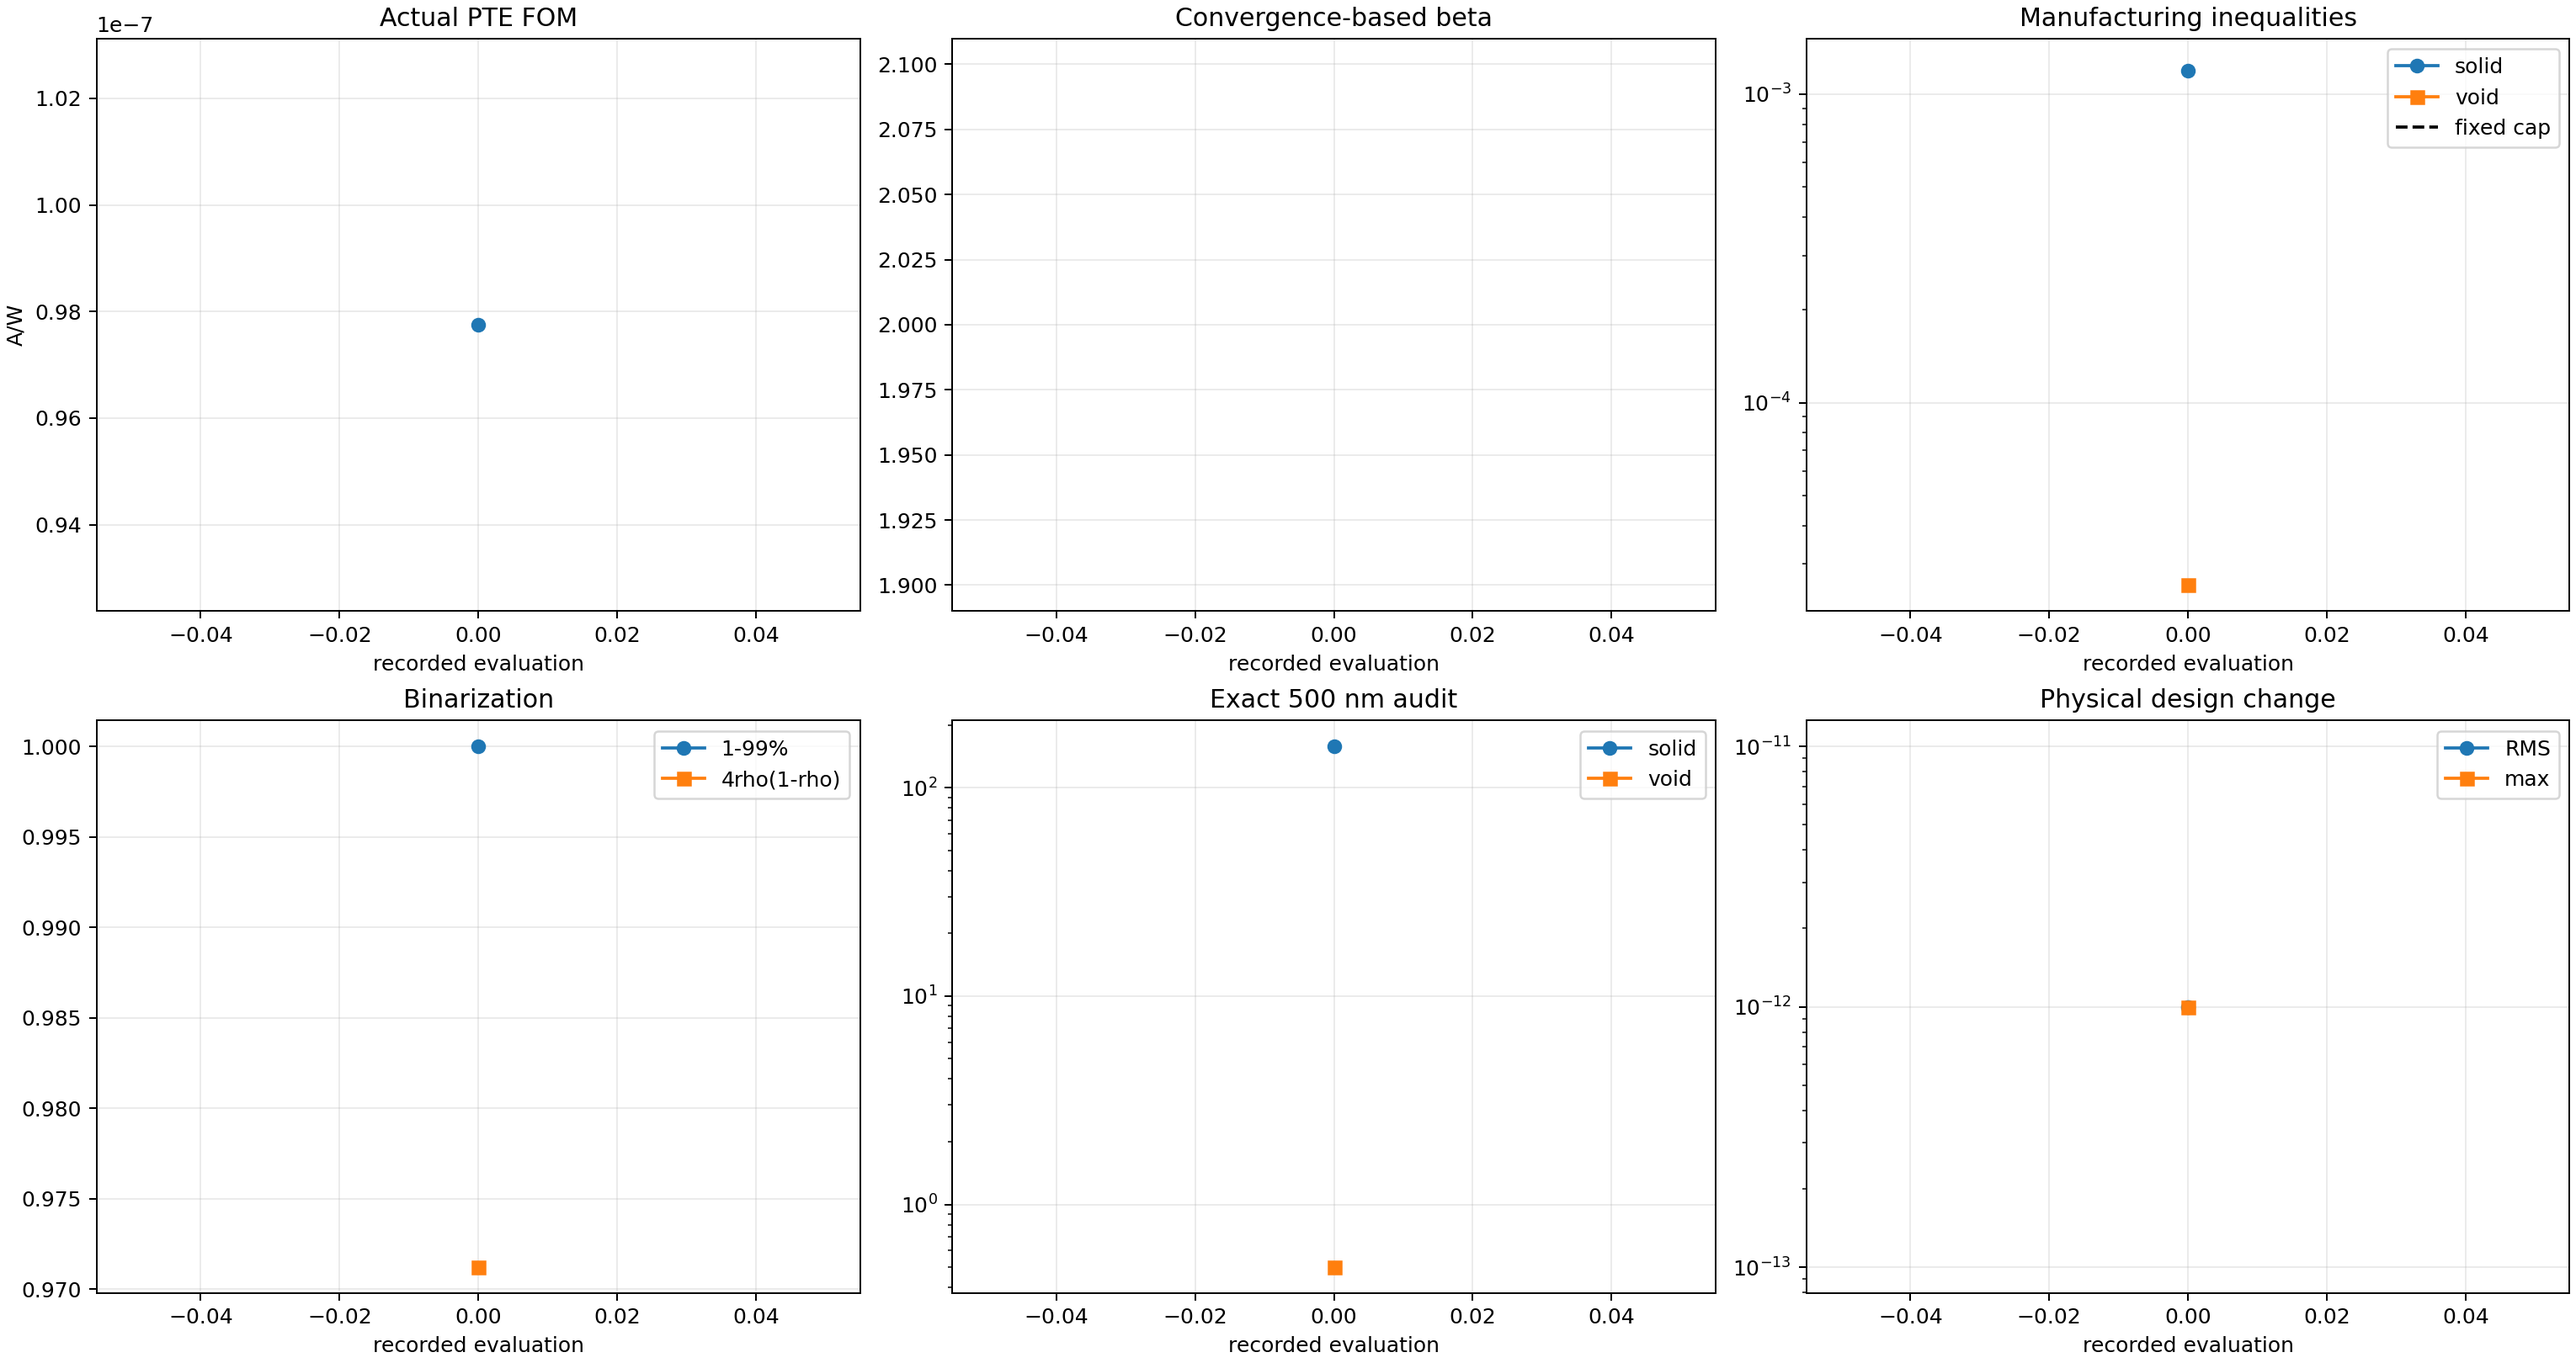
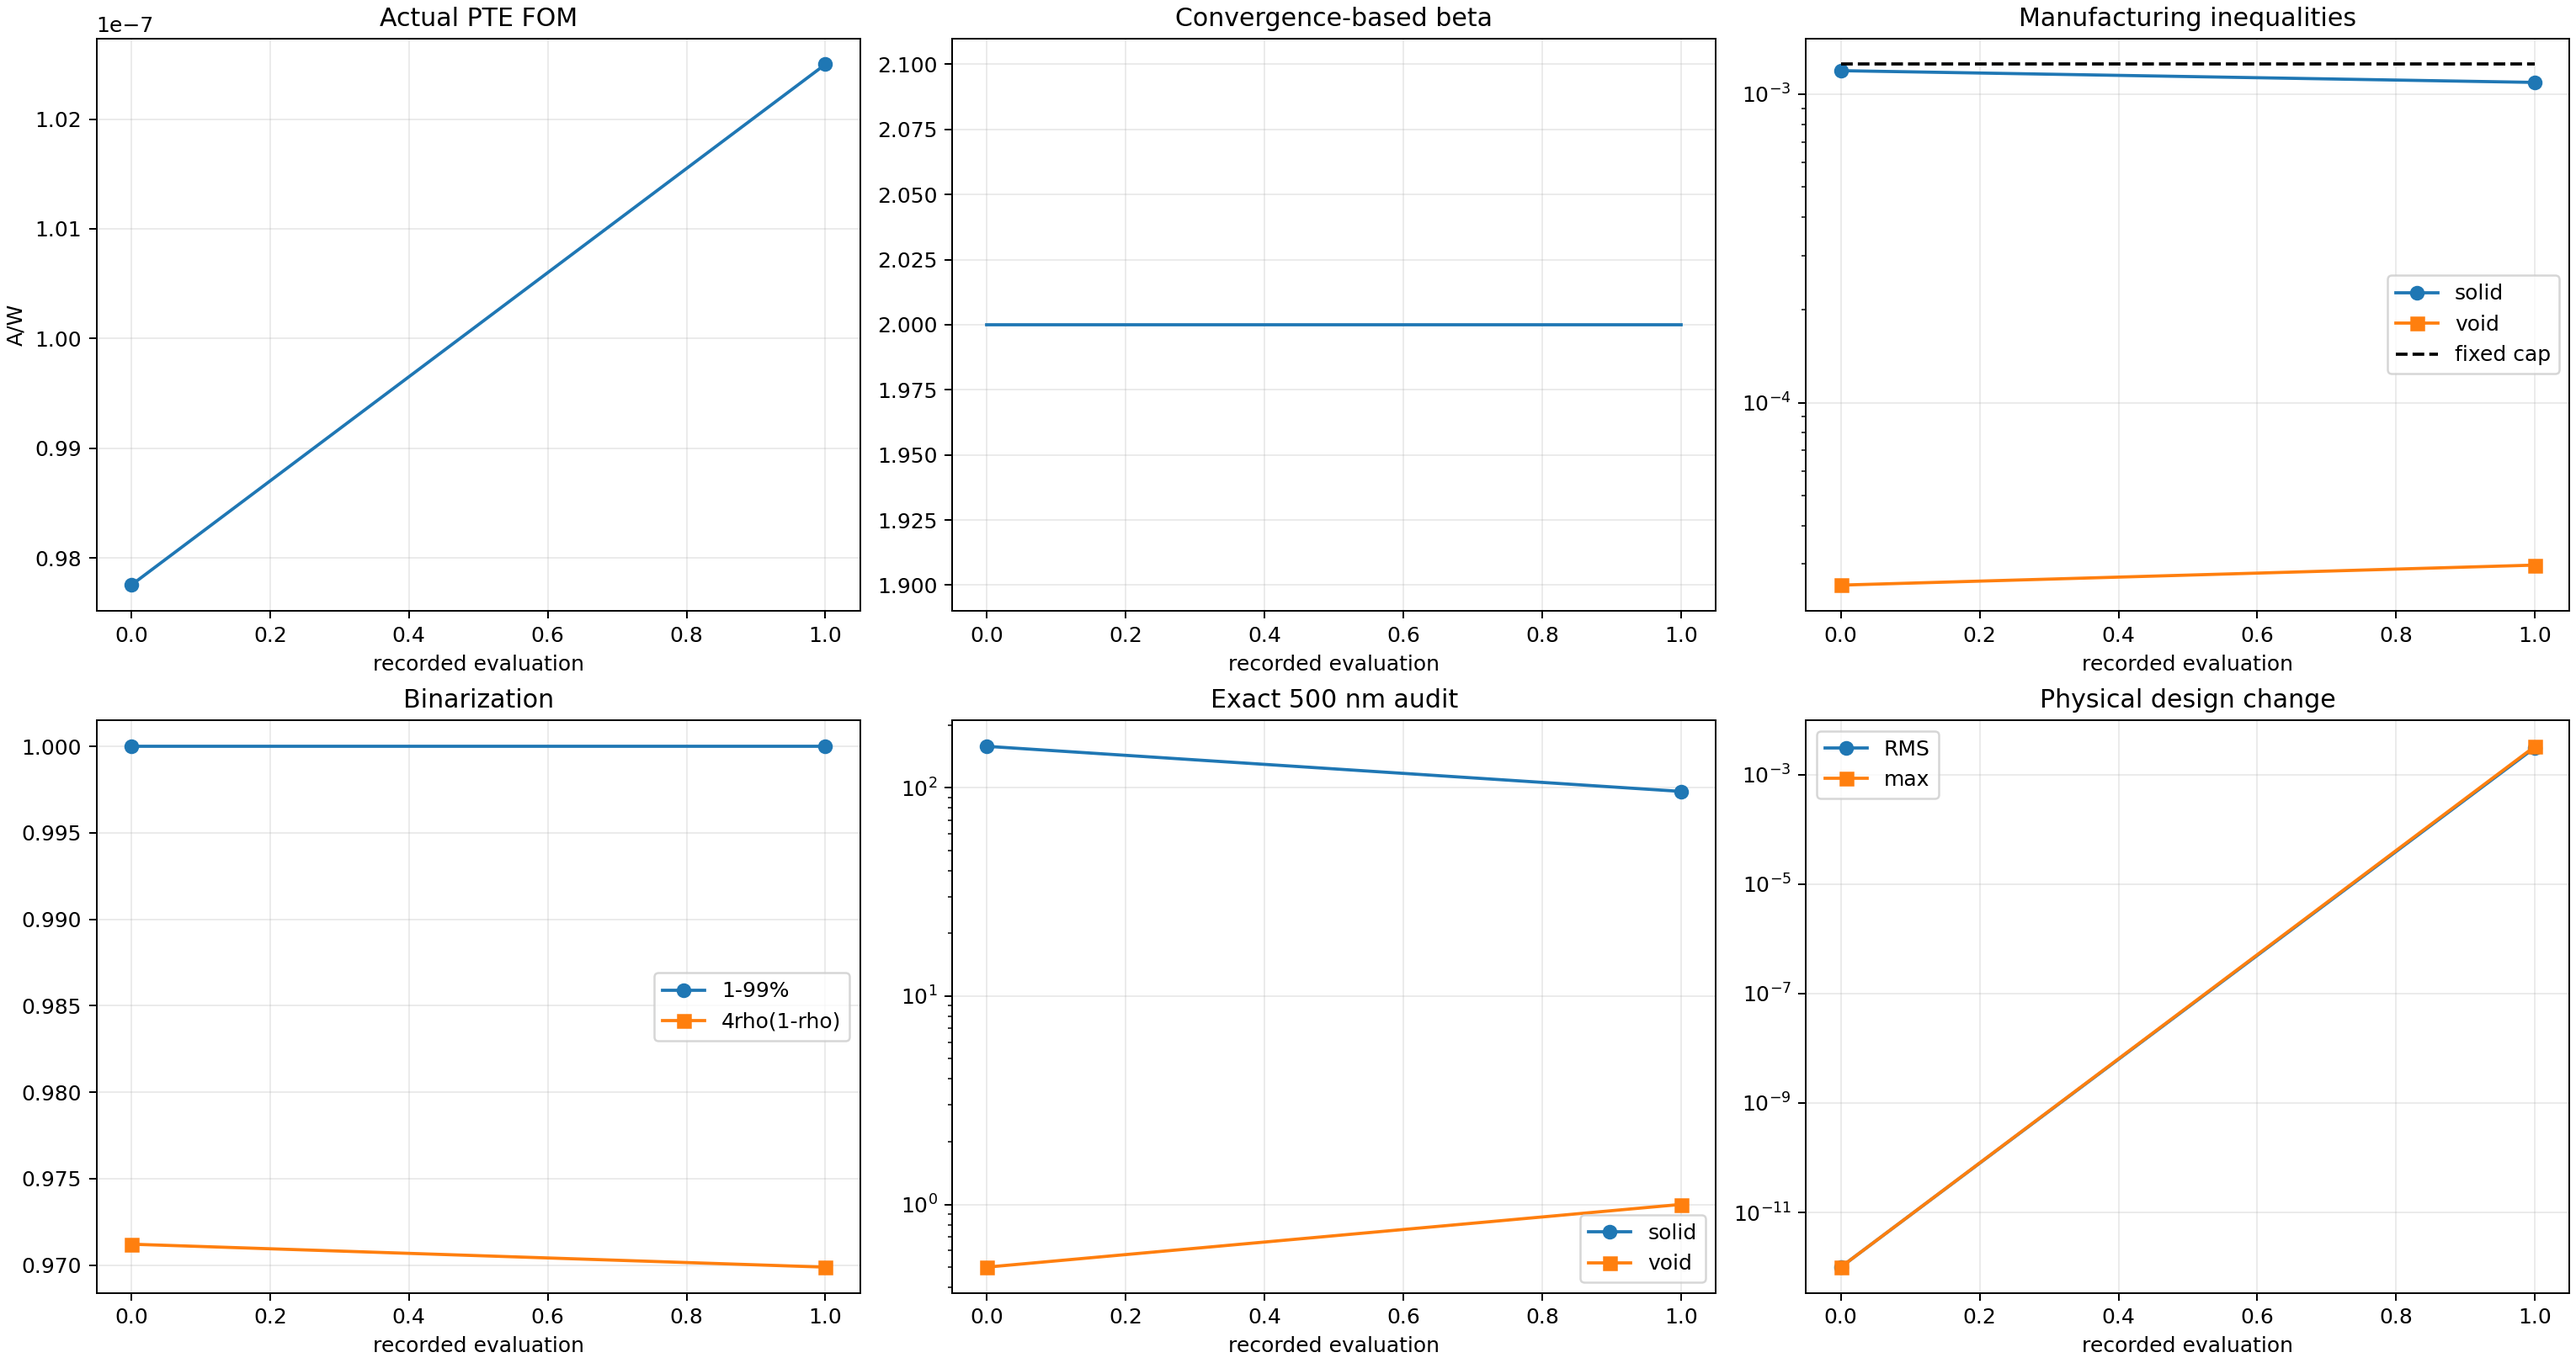
Record Run 004 run004_b002_s001_g001_accepted_mma

diff --git a/photothermal_pte/optimization_runs/run_004_joint_disk_constrained_current_max/results/OPTIMIZATION_REPORT.md b/photothermal_pte/optimization_runs/run_004_joint_disk_constrained_current_max/results/OPTIMIZATION_REPORT.md
@@ -2,12 +2,12 @@
 
 Status: `RUNNING_JOINT_FOM_DISK_CONSTRAINED_CONTINUATION`
 
-Current stage: beta=2, accepted stage iteration=0, global iteration=0.
+Current stage: beta=2, accepted stage iteration=1, global iteration=1.
 
 Constraint contract: `soft_disk_opening_500nm_from_iteration_zero_v4`.
 
-Actual FOM: `9.775174754357e-08 A/W`. Fixed-cap solid/void constraints: `1.192176e-03` / `2.563430e-05` with cap `1.250000e-03`.
+Actual FOM: `1.024991877950e-07 A/W`. Fixed-cap solid/void constraints: `1.092146e-03` / `2.976605e-05` with cap `1.250000e-03`.
 
-Exact 500 nm bad cells: solid `158`, void `0`. Stage convergence: `False` (need at least 8 accepted updates).
+Exact 500 nm bad cells: solid `96`, void `1`. Stage convergence: `False` (need at least 8 accepted updates).
 
 Beta is promoted only after fixed-inequality feasibility and a four-update FOM/design plateau; it is never promoted after one nominal update.
